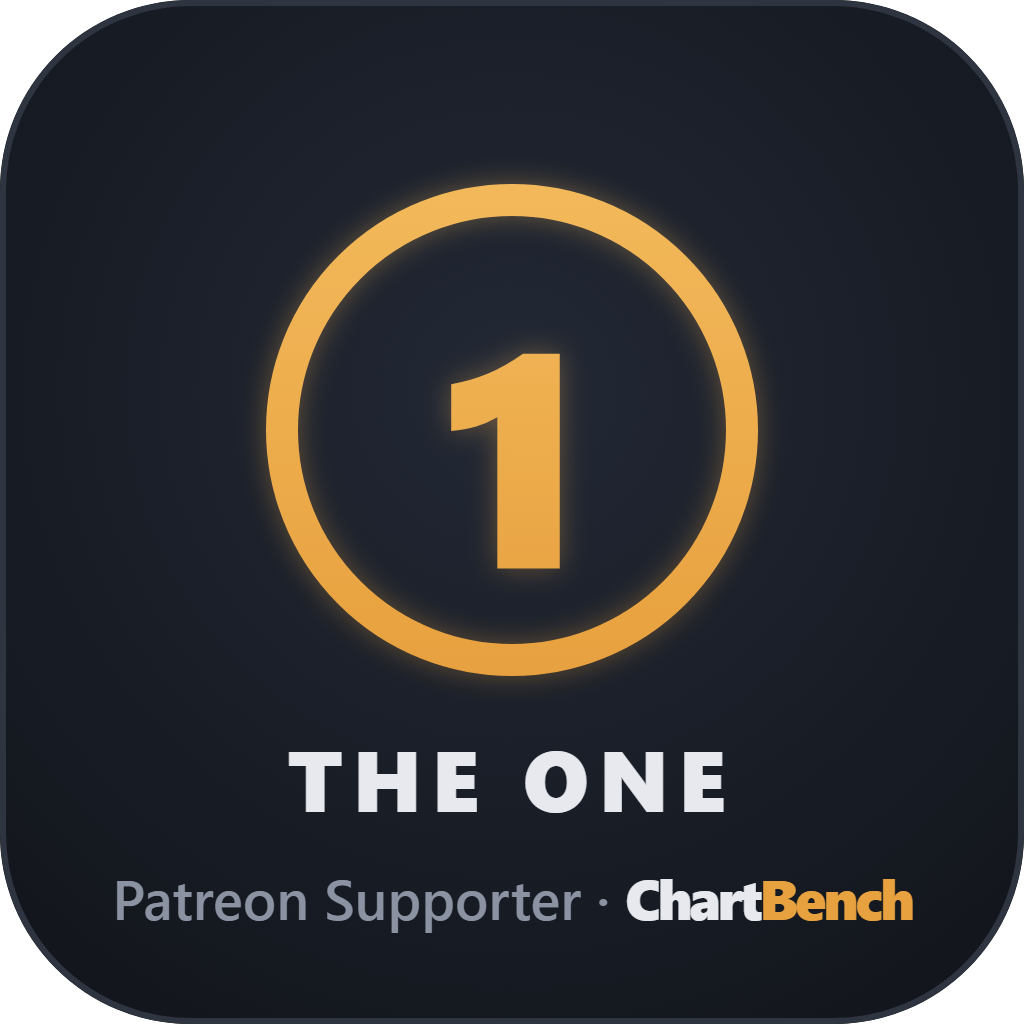
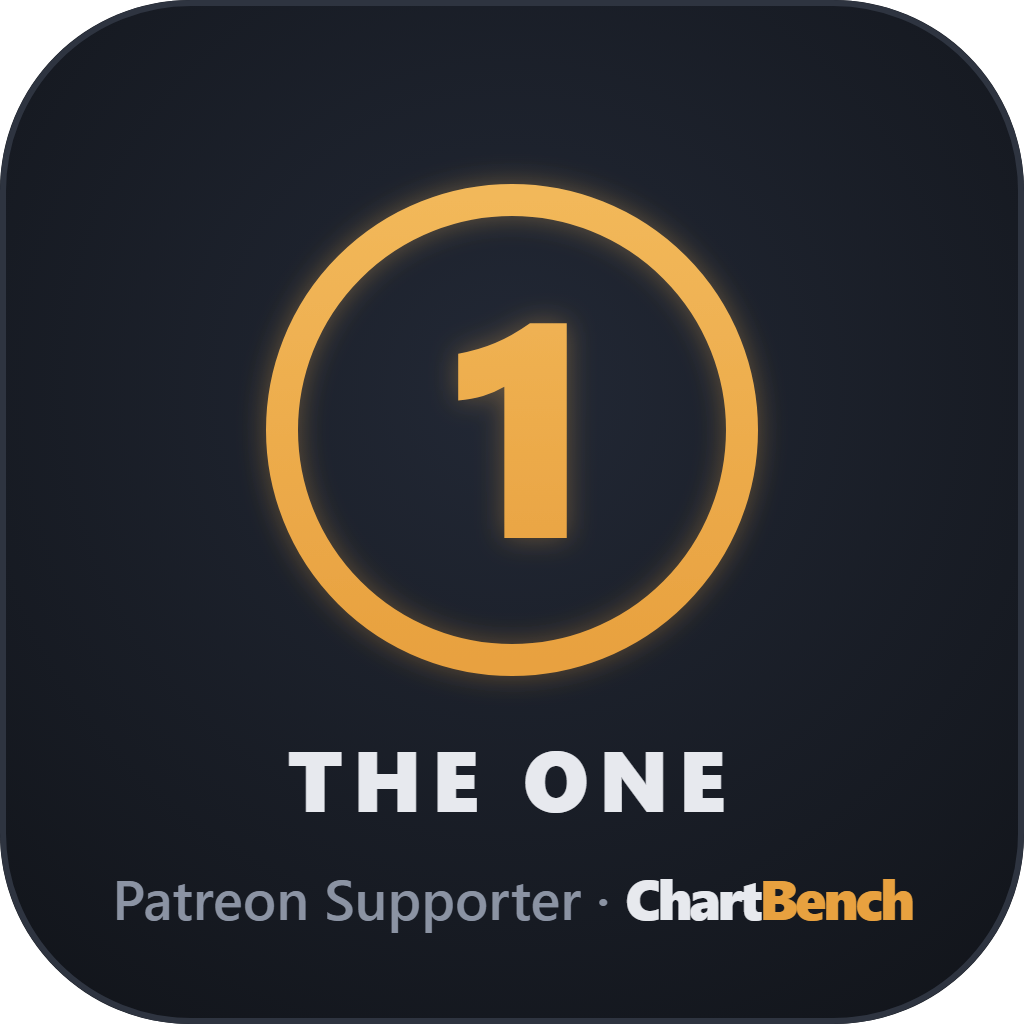
Patreon badges: digits optically centered in the rings
Measured each rendered digit's pixel bounding box against the ring
center and corrected dx/dy in the -src.html files until the offset is
0.0px on all three (the dominant-baseline=central baseline sits digits
~35px low at this size, and Segoe's '1' carries a 7px left bearing).

Changed region(s): [[0.4375, 0.3125, 0.5625, 0.5625]]

diff --git a/docs/brand/patreon/tier3-the-five-src.html b/docs/brand/patreon/tier3-the-five-src.html
@@ -33,7 +33,7 @@
     <circle cx="512" cy="430" r="230" fill="none" stroke="url(#amber)" stroke-width="30"/>
     <circle cx="512" cy="430" r="274" fill="none" stroke="url(#amber)" stroke-width="14" opacity="0.9"/>
     <circle cx="512" cy="430" r="310" fill="none" stroke="url(#amber)" stroke-width="7" opacity="0.75"/>
-    <text x="512" y="430" text-anchor="middle" dominant-baseline="central" dy="14"
+    <text x="513" y="430" text-anchor="middle" dominant-baseline="central" dy="-21.0"
           class="num" font-size="300" fill="url(#amber)">5</text>
   </g>
 

diff --git a/docs/brand/patreon/tier2-the-four-src.html b/docs/brand/patreon/tier2-the-four-src.html
@@ -32,7 +32,7 @@
   <g filter="url(#glow)">
     <circle cx="512" cy="430" r="230" fill="none" stroke="url(#amber)" stroke-width="30"/>
     <circle cx="512" cy="430" r="278" fill="none" stroke="url(#amber)" stroke-width="12" opacity="0.85"/>
-    <text x="512" y="430" text-anchor="middle" dominant-baseline="central" dy="14"
+    <text x="512" y="430" text-anchor="middle" dominant-baseline="central" dy="-19.0"
           class="num" font-size="300" fill="url(#amber)">4</text>
   </g>
 

diff --git a/docs/brand/patreon/tier1-the-one-src.html b/docs/brand/patreon/tier1-the-one-src.html
@@ -31,7 +31,7 @@
 
   <g filter="url(#glow)">
     <circle cx="512" cy="430" r="230" fill="none" stroke="url(#amber)" stroke-width="32"/>
-    <text x="512" y="430" text-anchor="middle" dominant-baseline="central" dy="14"
+    <text x="519" y="430" text-anchor="middle" dominant-baseline="central" dy="-16.5"
           class="num" font-size="300" fill="url(#amber)">1</text>
   </g>
 
